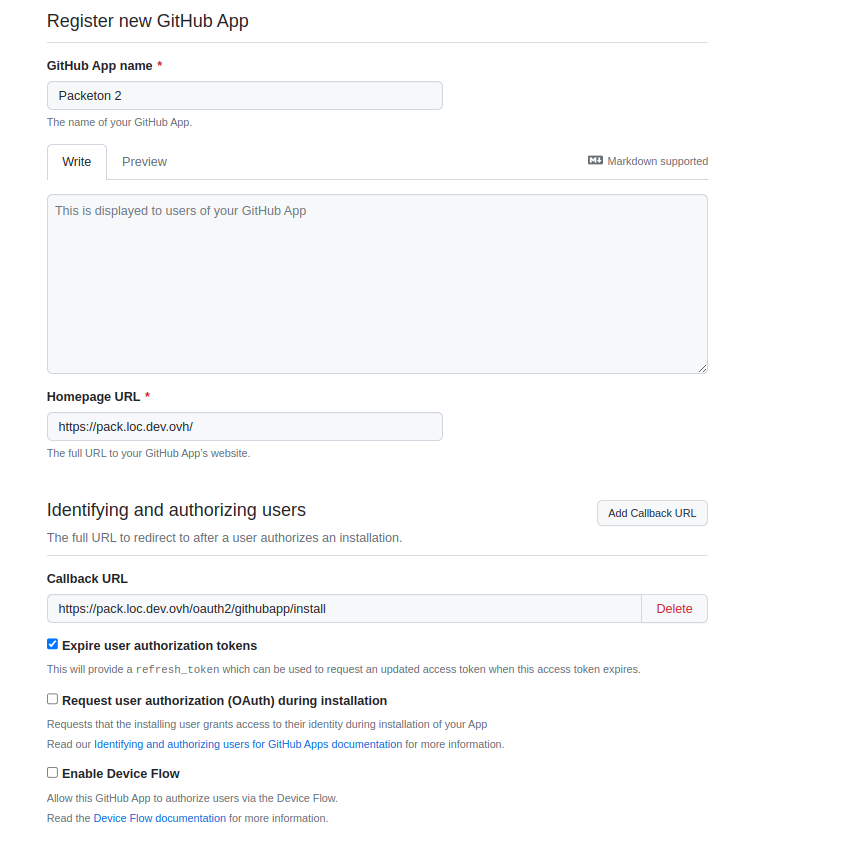
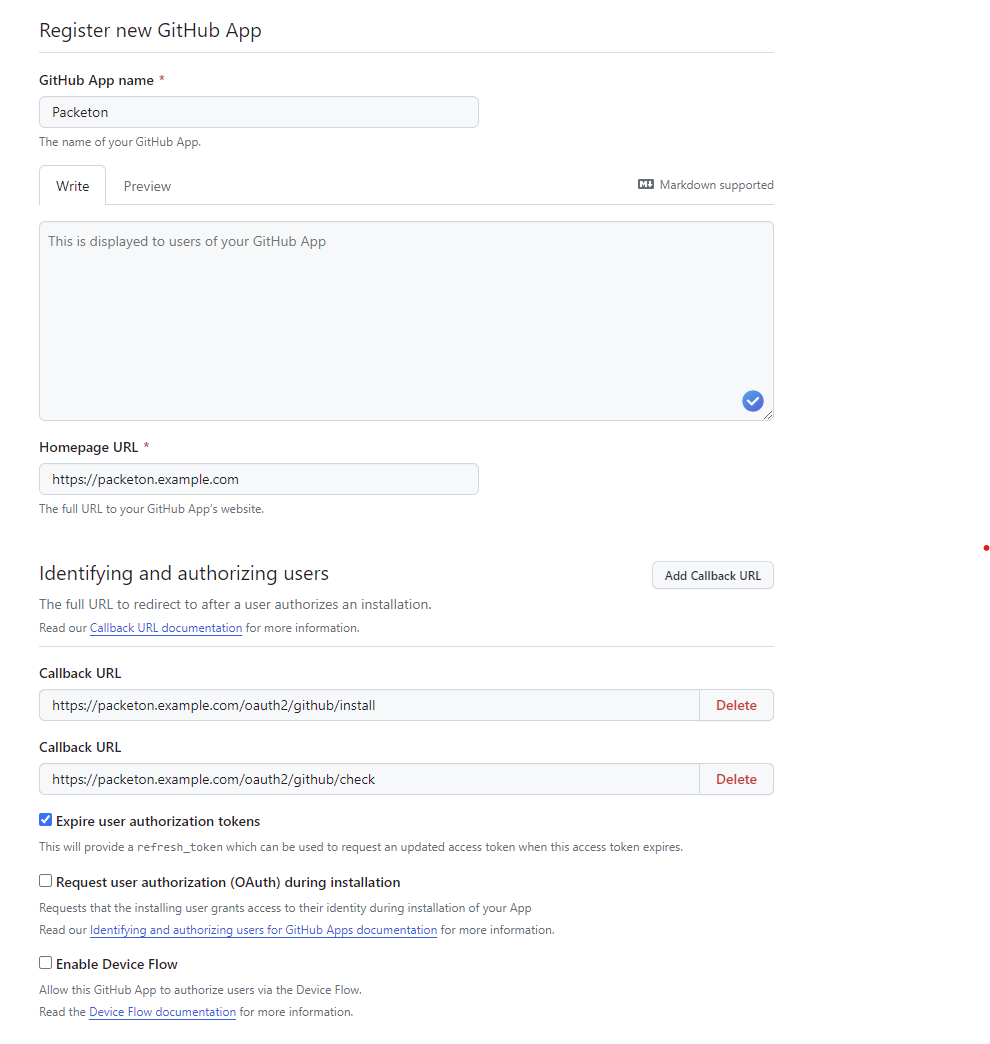
Fix GitHub OAuth2 for accounts without email (#233)
* Fix Uncaught PHP Exception TypeError
Argument #2 ($user) must be of type Symfony\Component\Security\Core\User\UserInterface|string, null given

* Some GitHub users dont have there email exposed.
In this case use username and username+example.com

* When developing ignore the local .docker folder

* Rename folder, conflicting on windows

* Update docs

diff --git a/src/Integrations/Github/GitHubIntegration.php b/src/Integrations/Github/GitHubIntegration.php
@@ -432,7 +432,7 @@ class GitHubIntegration implements IntegrationInterface, LoginInterface, AppInte
         $response = $response->toArray();
 
         $response['user_name'] = $response['login'] ?? null;
-        $response['user_identifier'] = $response['email'];
+        $response['user_identifier'] = $response['email'] ?? $response['login'];
         $response['external_id'] = isset($response['id']) ? $this->getConfig()->getName() . ':' . $response['id'] : null;
 
         return $response;
@@ -520,10 +520,12 @@ class GitHubIntegration implements IntegrationInterface, LoginInterface, AppInte
      */
     public function createUser(array $userData): User
     {
+        $email = $userData['email'] ?? (str_contains($userData['user_identifier'], '@') ? $userData['user_identifier'] : $userData['user_identifier'] .'@example.com');
+
         $user = new User();
         $user->setEnabled(true)
             ->setRoles($this->getConfig()->roles())
-            ->setEmail($userData['email'])
+            ->setEmail($email)
             ->setUsername($userData['login'])
             ->setGithubId($userData['external_id'] ?? null)
             ->generateApiToken();

diff --git a/src/EventListener/AuditLoginListener.php b/src/EventListener/AuditLoginListener.php
@@ -38,8 +38,10 @@ class AuditLoginListener
         }
 
         try {
-            $username = $event->getPassport()?->getUser()->getUserIdentifier();
-        } catch (\Throwable $e) {
+            if(!$username = $event->getPassport()?->getUser()->getUserIdentifier()) {
+                return;
+            }
+        } catch (\Throwable) {
             return;
         }
 

diff --git a/tests/Functional/Controller/BaseAclControllerTest.php b/tests/Functional/Controller/BaseAclControllerTest.php
@@ -4,7 +4,7 @@ declare(strict_types=1);
 
 namespace Packeton\Tests\Functional\Controller;
 
-use Packeton\Tests\Phpunit\PacketonTestTrait;
+use Packeton\Tests\Functional\PacketonTestTrait;
 use PHPUnit\Framework\Attributes\DataProvider;
 use Symfony\Bundle\FrameworkBundle\Test\WebTestCase;
 

diff --git a/tests/Functional/Controller/ProviderControllerTest.php b/tests/Functional/Controller/ProviderControllerTest.php
@@ -2,7 +2,7 @@
 
 namespace Packeton\Tests\Functional\Controller;
 
-use Packeton\Tests\Phpunit\PacketonTestTrait;
+use Packeton\Tests\Functional\PacketonTestTrait;
 use PHPUnit\Framework\Attributes\DataProvider;
 use Symfony\Bundle\FrameworkBundle\Test\WebTestCase;
 

diff --git a/tests/Functional/PacketonTestTrait.php b/tests/Functional/PacketonTestTrait.php
@@ -2,7 +2,7 @@
 
 declare(strict_types=1);
 
-namespace Packeton\Tests\Phpunit;
+namespace Packeton\Tests\Functional;
 
 use Doctrine\Persistence\ManagerRegistry;
 use Packeton\Entity\User;

diff --git a/docs/oauth2/githubapp.md b/docs/oauth2/githubapp.md
@@ -1,25 +1,27 @@
 # GitHub App Integration
 
-GitHub App Integration is alternative of GitHub OAuth2. To create GitHub go to 
-Settings / Developer settings / GitHub Apps and click New GitHub App.
+GitHub App Integration is alternative of GitHub OAuth2. 
+To create GitHub go to: Settings / Developer settings / GitHub Apps and click `New GitHub App`.
 
-Use the next "Callback URL / Redirect URL".
-
-Redirect Urls:
-
+- Enter a GitHub App name: Private Packeton.
+- Enter a homepage url: https://packeton.example.com for example.
+- Click `Add Callback URL` and use the next "Callback URL / Redirect URL".
 ```
-https://example.com/oauth2/{alias}/install
-https://example.com/oauth2/{alias}/check
+https://packeton.example.com/oauth2/{alias}/install
+https://packeton.example.com/oauth2/{alias}/check
 ```
 
-The webhooks URL maybe any. We don't use it and setup webhooks per repository or choice organization.
+- Uncheck webhook active checkbox
 
-Select Permissions: 
-- Webhooks read-write (Repository permissions)
-- Metadata (Repository permissions)
-- Pull requests read-write (Repository permissions)
-- Webhooks read-write (Organization permissions)
-- Members read (Organization permissions) - optional
+Select Repository permissions:
+- Content: read-only 
+- Webhooks: read-write
+- Metadata: read-only (already selected)
+- Pull requests read-write 
+
+Select Organization permissions:
+- Webhooks: read-write
+- Members: read (optional)
 
 [![Img](../img/githubapp1.png)](../img/githubapp1.png)
 
@@ -40,15 +42,20 @@ packeton:
                 app_id: 340120
 ```
 
-When you must install GitHub App in you Github Account. Go to public App page, like `https://github.com/apps/{name}`
-and click configure. Select you organization or own account.
+When you must install GitHub App in your GitHub Account. 
+
+Go to public App page, like `https://github.com/apps/{name}` and click configure. 
+Select your organization or own account.
 
 [![Img](../img/githubapp2.png)](../img/githubapp2.png)
 
 After install you will see `installation_id` on URL address. For example `https://github.com/settings/installations/38069000`
 
-Now go to Packeton integration page and click Install Integration. When click to Connect under you githubapp configuration.
+Now go to Packeton `integration` page and click `Install Integration`. 
+When click to `Connect` under you `github` configuration.
 
-To finish setup Go to Packeton integration view page / Settings and provider `installation_id` in the form
+[![Img](../img/githubapp4.png)](../img/githubapp4.png)
+
+To finish setup Go to Packeton `integration` view page / Settings and provider `installation_id` in the form
 
 [![Img](../img/githubapp3.png)](../img/githubapp3.png)

diff --git a/docs/oauth2/github-oauth.md b/docs/oauth2/github-oauth.md
@@ -6,7 +6,7 @@ Use the packeton host as "Callback URL / Redirect URL". For example `https://pac
 
 [![Groups](../img/github-oauth2.png)](../img/github-oauth2.png)
 
-Use obtained `clinent_id`, `client_secret` to create configuration in yaml. For docker installation you may use `config.yaml` file in docker volume.
+Use obtained `client_id`, `client_secret` to create configuration in yaml. For docker installation you may use `config.yaml` file in docker volume.
 
 ```yaml
 packeton:
@@ -19,8 +19,8 @@ packeton:
                 client_secret: 'xxx'
 ```
 
-Now go to Packeton integration page and click Install Integration. You will see list of available integrations and its Redirect Urls
+Now go to Packeton integration page and click Install Integration. You will see a list of available integrations and its Redirect Urls
 
-Click to Connect to set up oauth2 credentials
+Click to `Connect` to set up oauth2 credentials.
 
 [![Groups](../img/github-connect.png)](../img/github-connect.png)

diff --git a/docs/oauth2.md b/docs/oauth2.md
@@ -12,7 +12,7 @@ Table of content
 
 ## Base configuration reference
 
-To enable OAuth2 integrations you need to add following configuration 
+To enable OAuth2 integrations, you need to add the following configuration 
 ```yml
 packeton:
     integrations:
@@ -162,9 +162,9 @@ https://example.com/oauth2/{alias}/check
 
 A group webhooks needed for synchronization a new package. 
 They are triggered by events that occur across all projects in the group.
-This feature enabled only for Premium / EE / Gold paid plan, but it can be replaced with GitLab Packagist Integration
+This feature is enabled only for Premium / EE / Gold paid plan, but it can be replaced with GitLab Packagist Integration
 
-You must manually setup this integration.
+You must manually set up this integration.
 
 [![Gitlab](img/gitlab.png)](img/gitlab.png)
 
